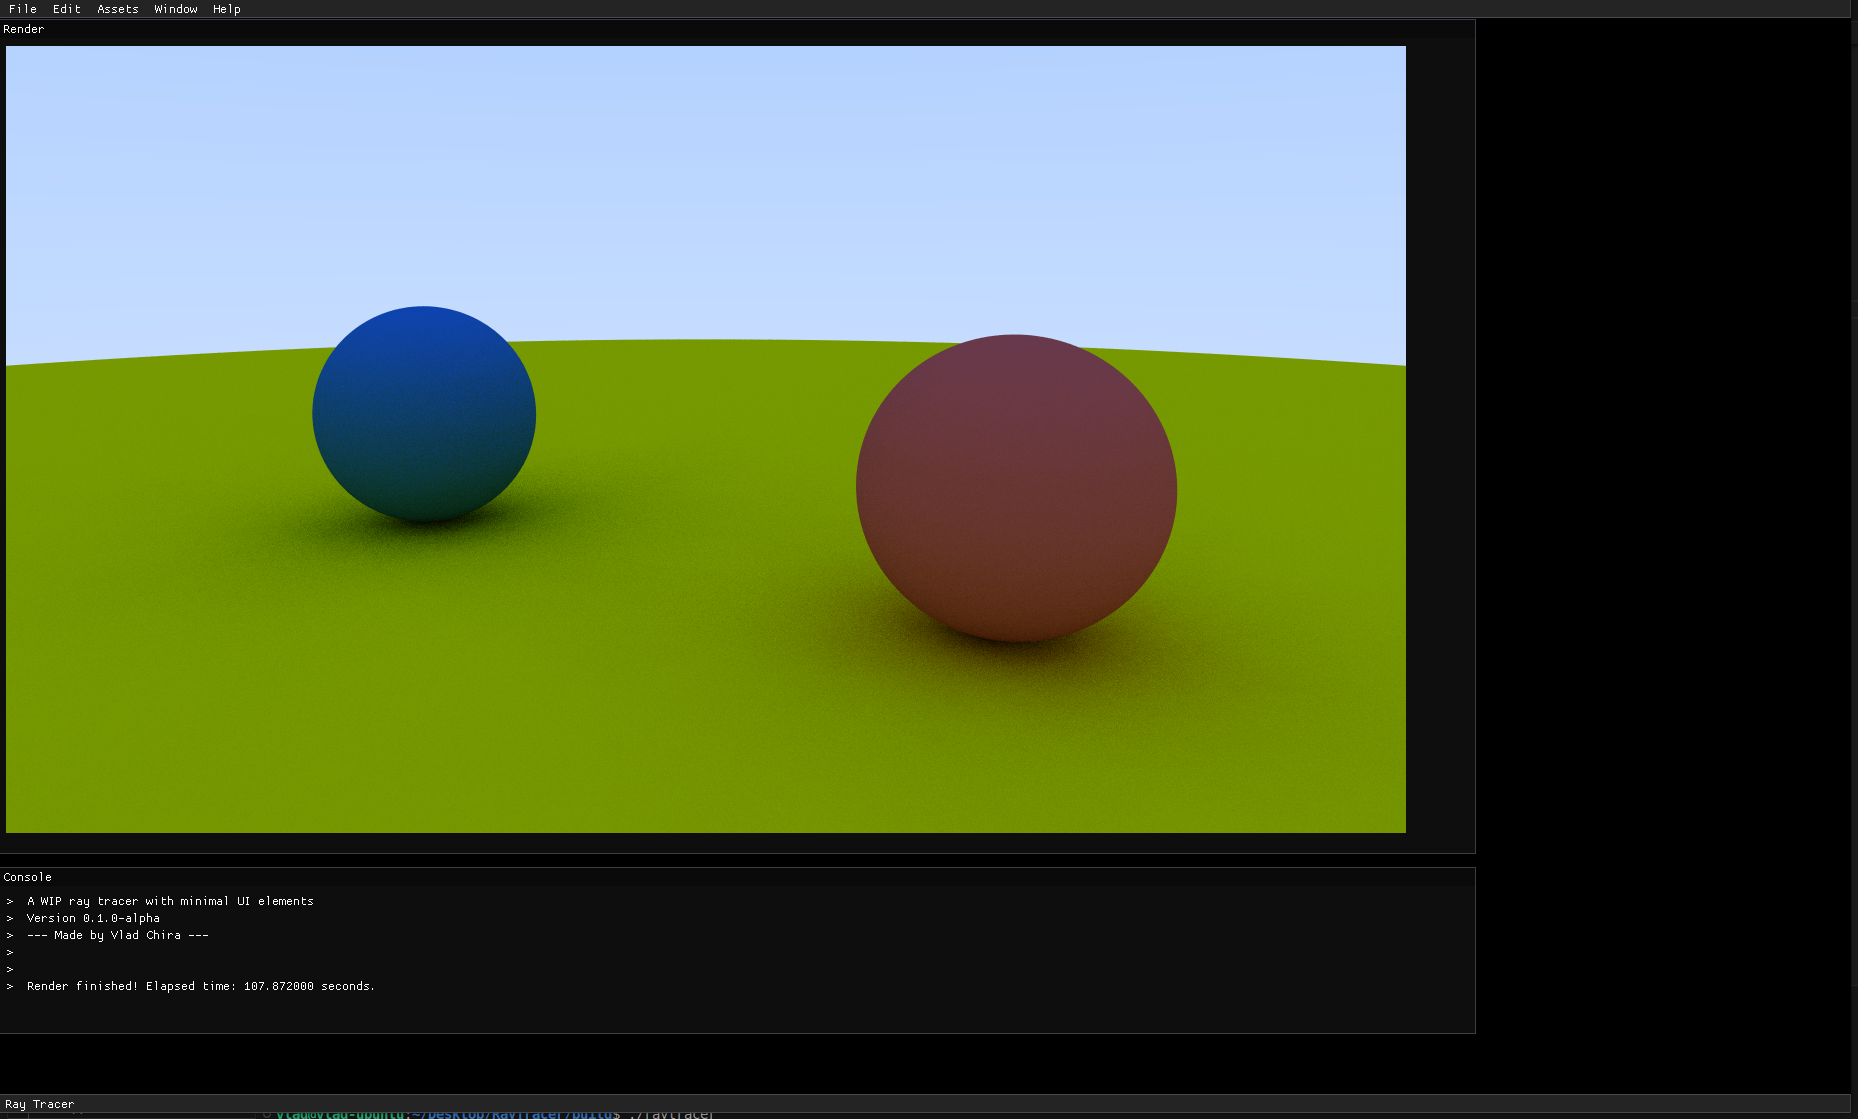
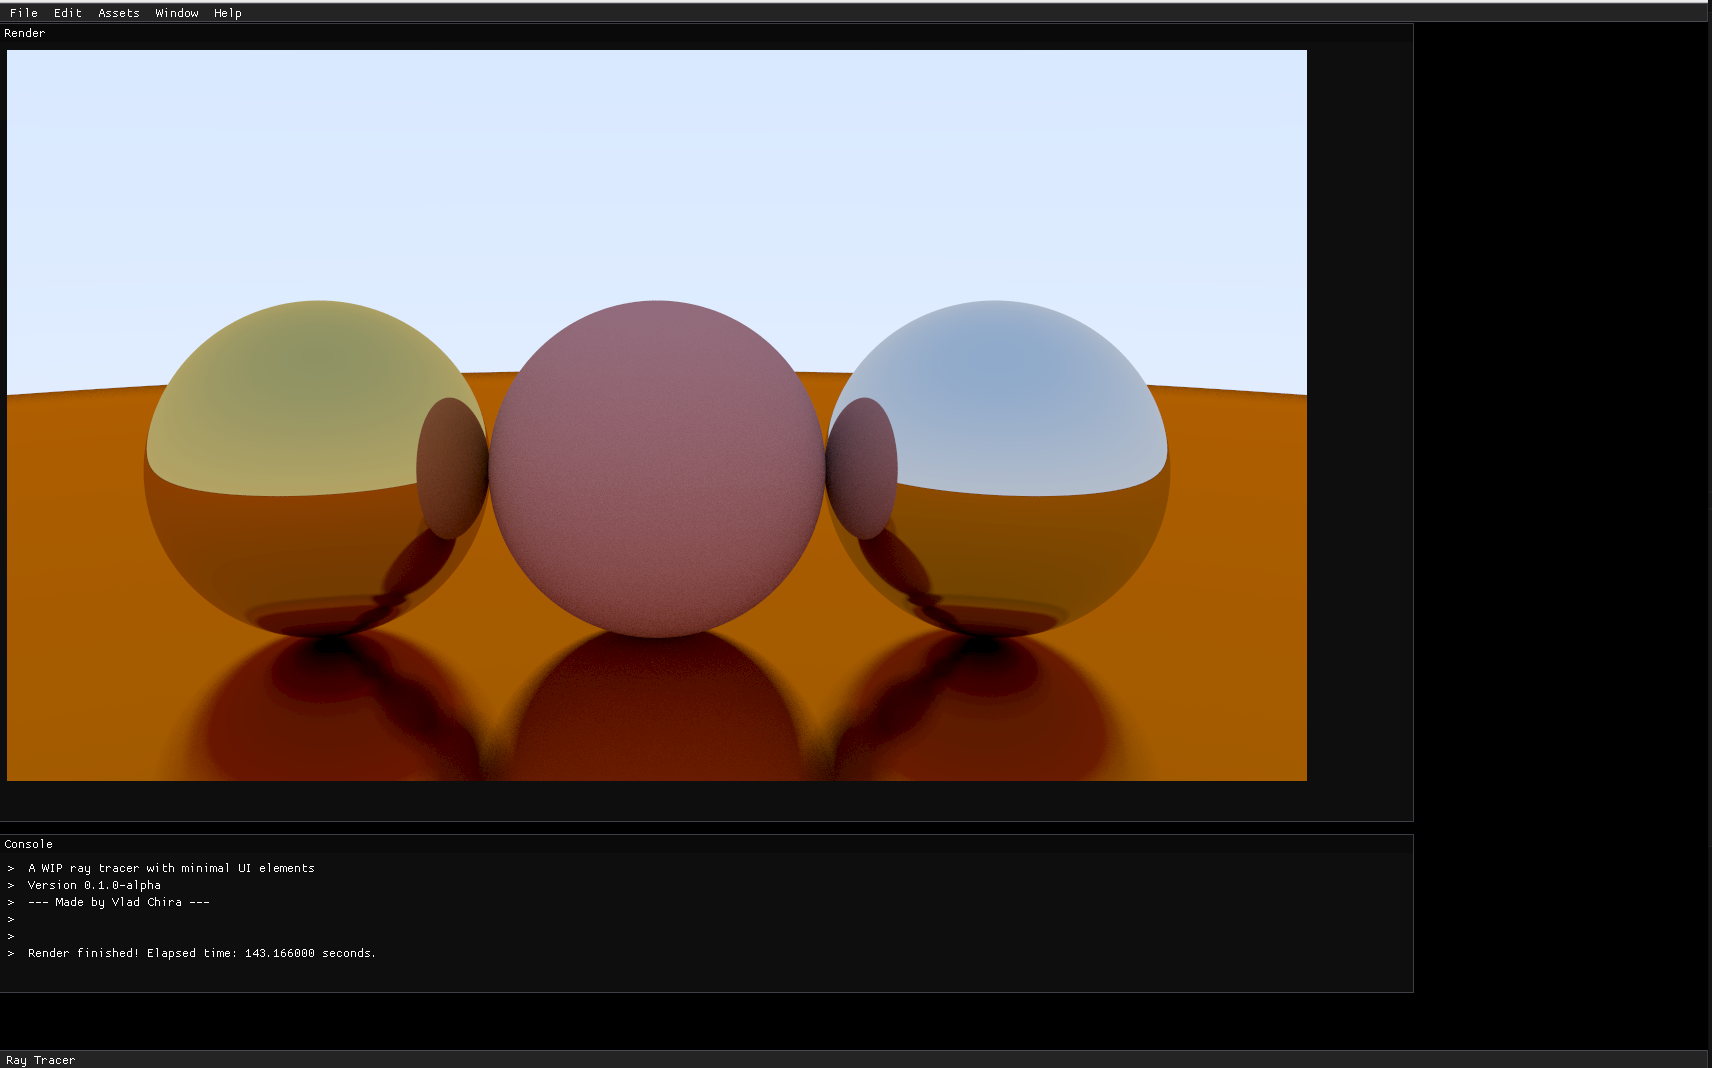
Added reflective brdf and material

diff --git a/src/raytracer.cpp b/src/raytracer.cpp
@@ -19,29 +19,27 @@ void render()
 {
     // Image
     const auto aspect_ratio = 16.0 / 9.0;
-    const int image_width = 1000;
+    const int image_width = 1300;
     const int image_height = static_cast<int>(image_width / aspect_ratio);
-    const int samples_per_pixel = 20;
-    const int max_depth = 10;
+    const int samples_per_pixel = 100;
+    const int max_depth = 30;
 
     // World
-    std::shared_ptr<raytracer::Material> material_ground = std::make_shared<raytracer::Matte>(1.0, raytracer::Color3(0.8, 0.8, 0.0));
-    std::shared_ptr<raytracer::Material> material1 = std::make_shared<raytracer::Matte>(1.0, raytracer::Color3(0.7, 0.3, 0.3));
-    std::shared_ptr<raytracer::Material> material2 = std::make_shared<raytracer::Matte>(1.0, raytracer::Color3(0.098, 0.3529, 0.69));
-
     raytracer::HittableList world;
-    
-    world.add(std::make_shared<raytracer::Sphere>(raytracer::Point3(0.0, -190.5, -1.0), 190.0, material_ground));
-    // world.add(std::make_shared<raytracer::Plane>(raytracer::Point3(0.0, -0.4, 0), raytracer::Normal3(0.0, 1.0, 0.0), material_ground));
-    world.add(std::make_shared<raytracer::Sphere>(raytracer::Point3(-1.0, 0.0, -1.8), 0.5, material1));
-    world.add(std::make_shared<raytracer::Sphere>(raytracer::Point3(1.5, 0.0, -0.4), 0.5, material2));
+
+    auto material_ground = std::make_shared<raytracer::Reflective>(0.8, raytracer::Color3(201.0 / 255, 52.0 / 255, 32 / 255), 0.05);
+    auto material_center = std::make_shared<raytracer::Matte>(0.8, raytracer::Color3(0.7, 0.3, 0.3));
+    auto material_left   = std::make_shared<raytracer::Reflective>(0.8, raytracer::Color3(0.8, 0.8, 0.8), 0);
+    auto material_right  = std::make_shared<raytracer::Reflective>(0.8, raytracer::Color3(0.8, 0.6, 0.2), 0);
+
+    world.add(std::make_shared<raytracer::Sphere>(raytracer::Point3( 0.0, -100.5, -1.0), 100.0, material_ground));
+    world.add(std::make_shared<raytracer::Sphere>(raytracer::Point3( 0.0,    0.0, -1.0),   0.5, material_center));
+    world.add(std::make_shared<raytracer::Sphere>(raytracer::Point3(-1.0,    0.0, -1.0),   0.5, material_left));
+    world.add(std::make_shared<raytracer::Sphere>(raytracer::Point3( 1.0,    0.0, -1.0),   0.5, material_right));
 
     // Camera
-    auto *camera = new raytracer::Pinhole(raytracer::Vector3(0, 0.8, -7), raytracer::Vector3(0, 0, 0));
-    // camera->set_view_distance(1);
+    auto *camera = new raytracer::Pinhole(raytracer::Vector3(0, 0.8, -5), raytracer::Vector3(0, 0, 0));
     camera->set_fov(30);
-    // camera->set_focal_dist(2000);
-    // camera->set_lens_radius(5);
     camera->compute_pixel_size(image_width, image_height);
     camera->compute_uvw();
 
@@ -73,8 +71,6 @@ void render()
                 auto v = pixel_size * (i - 0.5 * image_height + p.y);
                 raytracer::Ray r = camera->get_ray(raytracer::Point2(u, v));
 
-                // std::cout << pixel_size << "    u: " << u << " v: " << v << "   ray:  " << r << "\n";
-
                 pixel_color += tracer->trace_ray(r, world, max_depth);
             }
             pixel_color = pixel_color / samples_per_pixel * 255;
@@ -84,6 +80,8 @@ void render()
     timer.stop();
     std::cout << "Elapsed time: " << timer.elapsed_time_seconds() << " seconds \n";
     Console::GetInstance()->appendLine("")->appendLine("Render finished! Elapsed time: " + std::to_string(timer.elapsed_time_seconds()) + " seconds.");
+
+    RenderView::GetInstance()->image->apply_gamma_correction(2);
 
     // FILE *output_file = fopen("../output.png", "wb");
     // save_image_png(*(RenderView::GetInstance()->image), output_file);

diff --git a/src/core/materials/reflective.h b/src/core/materials/reflective.h
@@ -1,0 +1,57 @@
+#pragma once
+#include "material.h"
+#include "perfect_specular.h"
+#include "geometric_object.h"
+#include "pure_random.h"
+
+namespace raytracer
+{
+    class Reflective : public Material
+    {
+    public:
+        PerfectSpecular p_spec_brdf;
+        Sampler *sampler = NULL;
+        double fuzz;
+
+        Reflective()
+        {
+            sampler = new PureRandom(10);
+            sampler->map_samples_to_sphere();
+        }
+
+        ~Reflective()
+        {
+            delete sampler;
+        }
+
+        Reflective(PerfectSpecular p_spec)
+        {
+            p_spec_brdf = p_spec;
+            if (sampler == NULL)
+            {
+                sampler = new PureRandom(10);
+                sampler->map_samples_to_sphere();
+            }
+        }
+
+        Reflective(double kr, Color3 cr, double fuzz)
+        {
+            this->p_spec_brdf.set_kr(kr);
+            this->p_spec_brdf.set_cr(cr);
+            this->fuzz = fuzz;
+            if (sampler == NULL)
+            {
+                sampler = new PureRandom(10);
+                sampler->map_samples_to_sphere();
+            }
+        }
+
+        bool scatter(const raytracer::Ray &r_in, const HitInfo &rec, raytracer::Color3 &attenuation, raytracer::Ray &scattered) const override
+        {
+            Vector3 reflected = Reflect(Normalize(r_in.direction), rec.normal);
+            scattered = Ray(rec.p, reflected + fuzz * sampler->sample_sphere());
+            attenuation = this->p_spec_brdf.cr * this->p_spec_brdf.kr;
+            return (Dot(scattered.direction, rec.normal) > 0);
+        }
+    };
+}

diff --git a/src/core/materials/matte.h b/src/core/materials/matte.h
@@ -31,19 +31,26 @@ namespace raytracer
         Matte(LambertianBRDF l)
         {
             diffuse_brdf = l;
-            sampler = new PureRandom(10);
-            sampler->map_samples_to_sphere();
+            if (sampler == NULL)
+            {
+                sampler = new PureRandom(10);
+                sampler->map_samples_to_sphere();
+            }
         }
 
         Matte(double kd, Color3 cd)
         {
             this->diffuse_brdf.set_kd(kd);
             this->diffuse_brdf.set_cd(cd);
-            sampler = new PureRandom(10);
-            sampler->map_samples_to_sphere();
+            if (sampler == NULL)
+            {
+                sampler = new PureRandom(10);
+                sampler->map_samples_to_sphere();
+            }
+
         }
 
-        virtual bool scatter(const raytracer::Ray &r_in, const HitInfo &rec, raytracer::Color3 &attenuation, raytracer::Ray &scattered) const override
+        bool scatter(const raytracer::Ray &r_in, const HitInfo &rec, raytracer::Color3 &attenuation, raytracer::Ray &scattered) const override
         {
             auto scatter_direction = rec.normal + sampler->sample_sphere();
             if(NearZero(scatter_direction))
@@ -61,5 +68,11 @@ namespace raytracer
             this->sampler = sampler;
             sampler->map_samples_to_sphere();
         }
+
+        // Color3 shade(const raytracer::Ray &r_in, const HitInfo &rec)
+        // {
+            
+        // }
+        
     };
 }

diff --git a/src/core/BRDFs/perfect_specular.h b/src/core/BRDFs/perfect_specular.h
@@ -1,28 +1,23 @@
-#pragma once
 #include "BRDF.h"
-#include "maths.h"
+
 namespace raytracer
 {
-    /**
-     * The simplest BRDF is the Lambertian BRDF. It represents perfect diffuse reflection.
-     * Light is scattered equally in all directions (see 13.8 in RTFGO).
-     */
-    class LambertianBRDF : public BRDF
+    class PerfectSpecular : public BRDF
     {
     public:
-        double kd;
-        Color3 cd;
+        double kr;
+        Color3 cr;
 
     public:
-        LambertianBRDF()
+        PerfectSpecular()
         {
-            kd = 1;
-            cd = Color3(0,0,0);
+            kr = 1;
+            cr = Color3(0, 0, 0);
         }
 
         Color3 f(const HitInfo &hi, const Vector3 &wi, const Vector3 &wo) const override
         {
-            return cd * kd * inv_pi;
+            return Color3(0, 0, 0);
         }
 
         Color3 sample_f(const HitInfo &hi, Vector3 &wi, const Vector3 &wo) const override
@@ -37,18 +32,17 @@ namespace raytracer
 
         Color3 rho(const HitInfo &hi, const Vector3 &wo) const override
         {
-            return cd * kd;
+            return Color3(0, 0, 0);
         }
 
-        void set_kd(double _kd)
+        void set_kr(double _kr)
         {
-            kd = _kd;
+            kr = _kr;
         }
 
-        void set_cd(Color3 c)
+        void set_cr(Color3 c)
         {
-            cd = c;
+            cr = c;
         }
     };
 }
-

diff --git a/src/core/BRDFs/BRDF.h b/src/core/BRDFs/BRDF.h
@@ -7,12 +7,12 @@ namespace raytracer
     class BRDF
     {
     public:
-        // virtual Color3 f(const HitInfo &hi, const Vector3 &wi, const Vector3 &wo) const = 0;
+        virtual Color3 f(const HitInfo &hi, const Vector3 &wi, const Vector3 &wo) const = 0;
 
-        // virtual Color3 sample_f(const HitInfo &hi, Vector3 &wi, const Vector3 &wo) const = 0;
+        virtual Color3 sample_f(const HitInfo &hi, Vector3 &wi, const Vector3 &wo) const = 0;
 
-        // virtual Color3 sample_f(const HitInfo &hi, Vector3 &wi, const Vector3 &wo, double pdf) const = 0;
+        virtual Color3 sample_f(const HitInfo &hi, Vector3 &wi, const Vector3 &wo, double pdf) const = 0;
 
-        // virtual Color3 tho(const HitInfo &hi, const Vector3 &wo) const = 0;
+        virtual Color3 rho(const HitInfo &hi, const Vector3 &wo) const = 0;
     };
 }

diff --git a/src/math/vector3.h b/src/math/vector3.h
@@ -225,4 +225,9 @@ namespace raytracer
     {
         return Vector3(v1.x * v2.x, v1.y * v2.y, v1.z * v2.z);
     }
+
+    inline Vector3 Reflect(const Vector3 &v, const Normal3 &n)
+    {
+        return v - 2 * Dot(v, n) * n;
+    }
 }

diff --git a/src/core/materials/materials.h b/src/core/materials/materials.h
@@ -1,2 +1,3 @@
 #include "material.h"
 #include "matte.h"
+#include "reflective.h"
